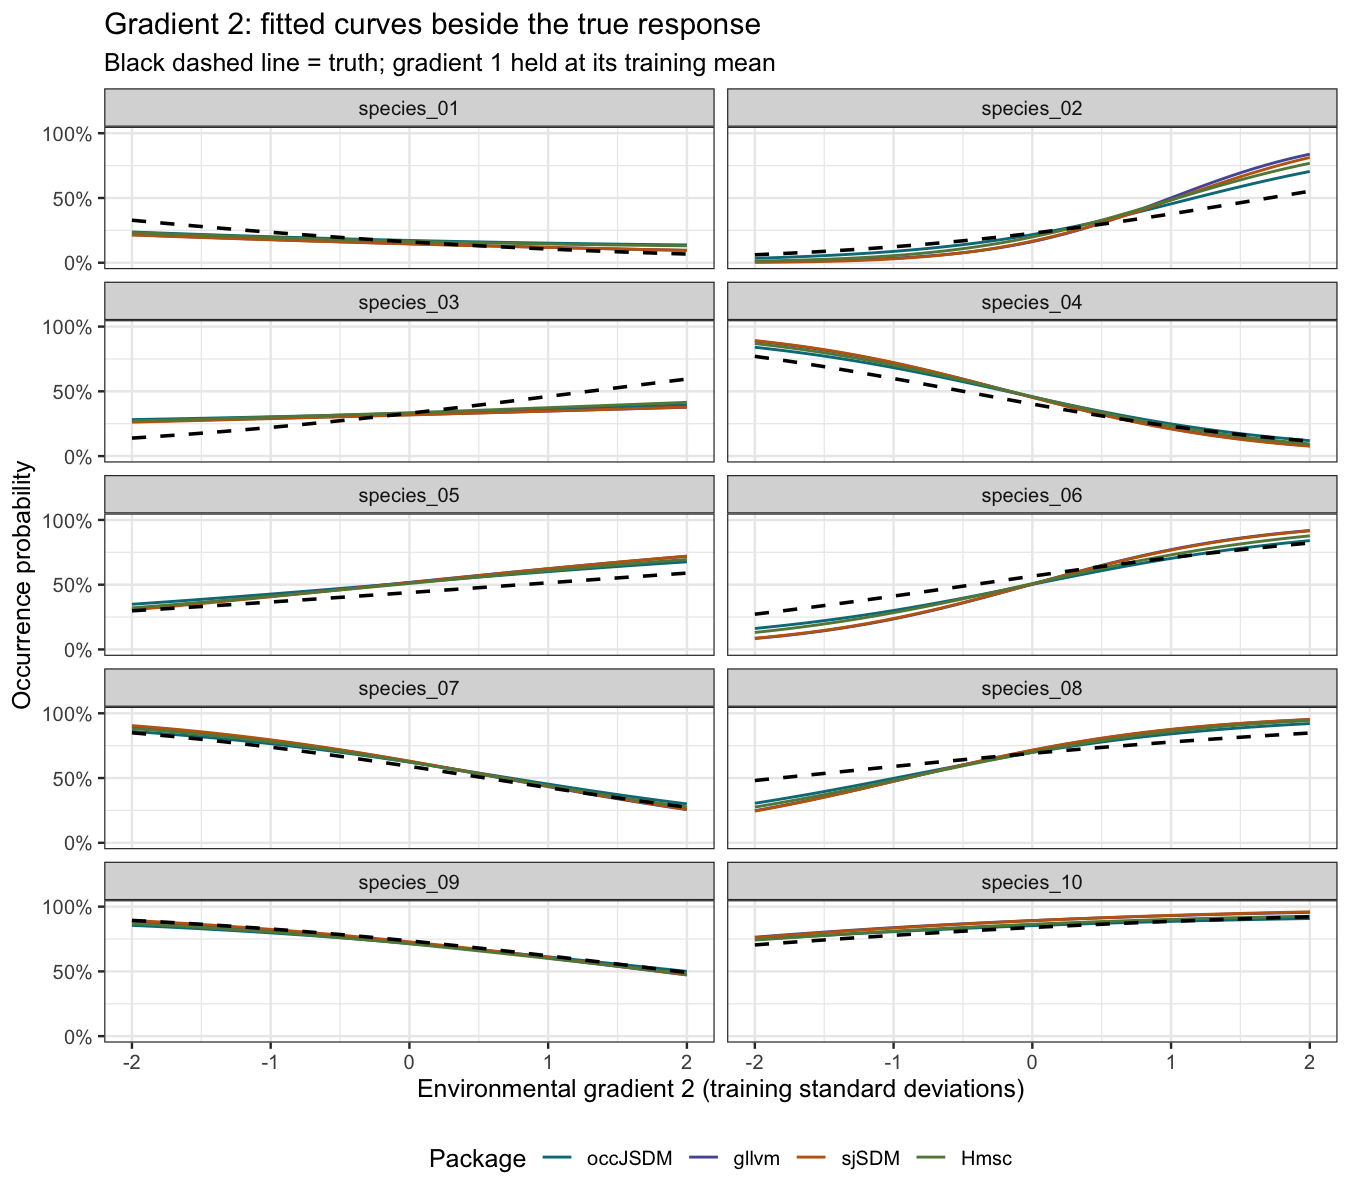
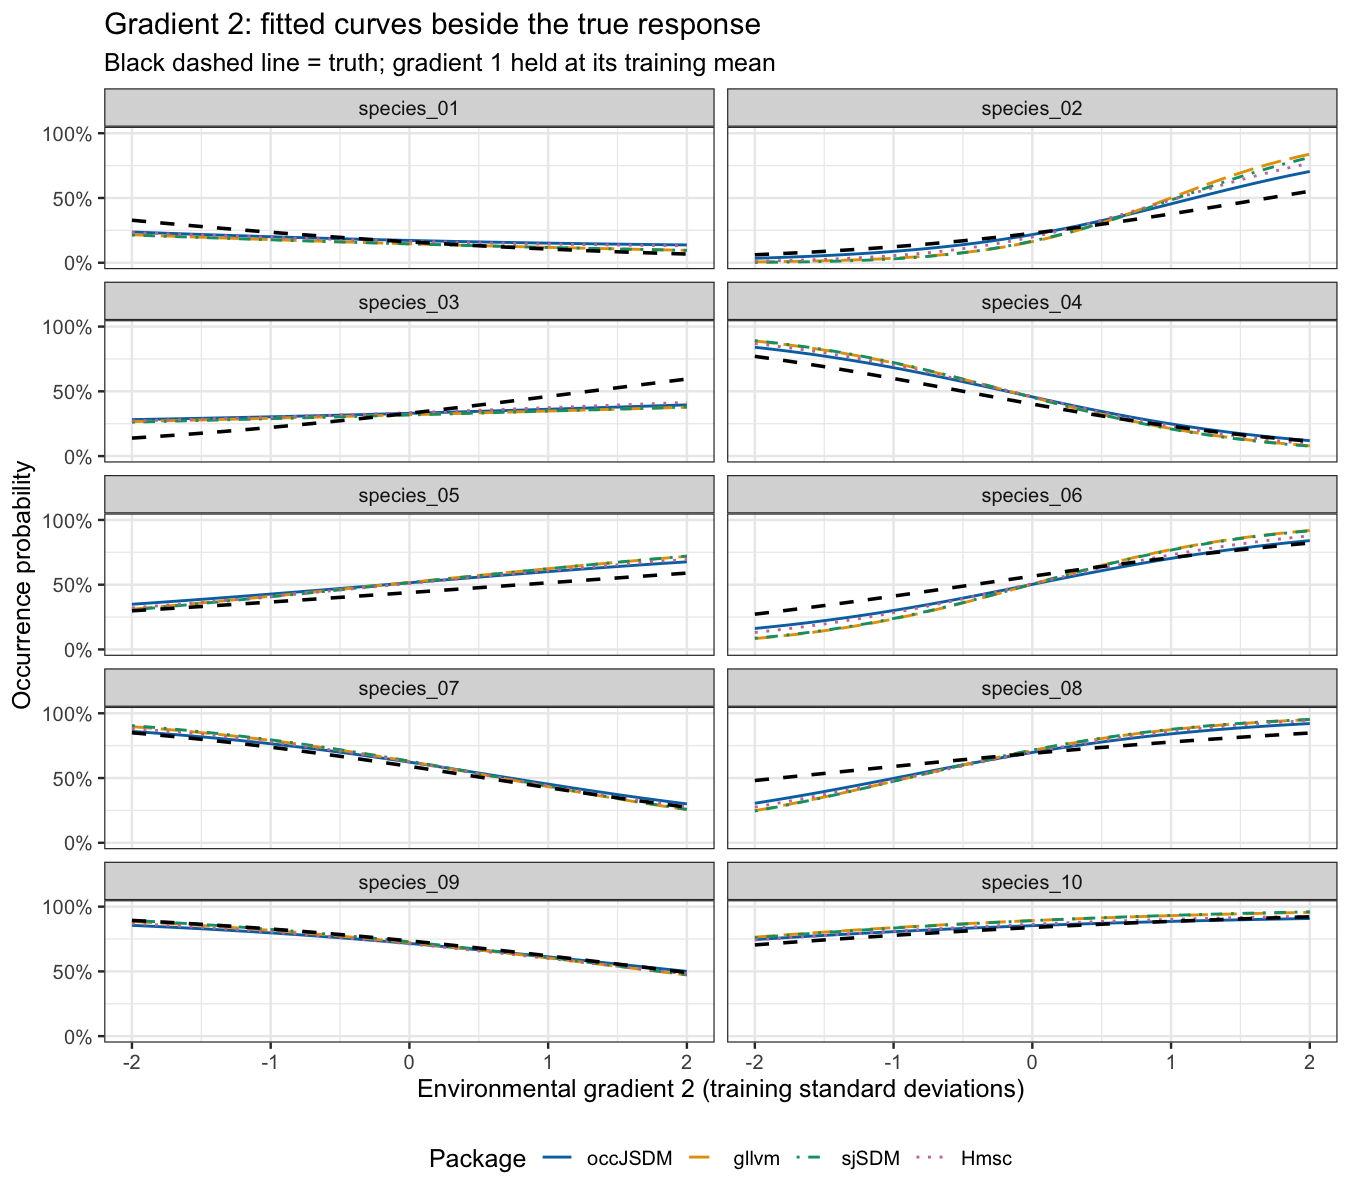
Use colour-blind-safe Okabe-Ito colours in Lessons 2, 5, 6 and 7
Replace the purple #7B3294 in Lessons 2 and 7 with bluish green and add
a shape per prior setting or arm; give Lesson 5's four packages
Okabe-Ito colours with shapes (errors by species) and linetypes
(gradient curves); in Lesson 6, keep the Lesson 5 package colours,
add a linetype to the generating curves, and colour training sites
and fitted responses with the two Okabe-Ito colours no package uses,
including the calibration report helper so both site figures match.

diff --git a/vignettes/occJSDM-lesson-6.md b/vignettes/occJSDM-lesson-6.md
@@ -28,6 +28,15 @@ library(ggplot2)
 
 package_order <- c("occJSDM", "gllvm", "sjSDM", "Hmsc")
 
+# Okabe-Ito colours, which stay distinct for readers with colour-vision deficiency.
+# Each package keeps its Lesson 5 colour and shape.
+package_colours <- c(occJSDM = "#0072B2", gllvm = "#E69F00", sjSDM = "#009E73", Hmsc = "#CC79A7")
+package_shapes <- c(occJSDM = 16, gllvm = 17, sjSDM = 15, Hmsc = 18)
+# Figures that already place packages on an axis or in panels use the two colours
+# no package uses, so a colour there never looks like a package.
+site_colours <- c("100" = "#56B4E9", "300" = "#D55E00")
+response_colours <- c(linear = "#D55E00", quadratic = "#56B4E9")
+
 # Keep the registered ternary theme elements valid when vignettes share a session.
 theme_set(ggtern::theme_bw(base_size = 12))
 ```
@@ -172,13 +181,15 @@ These are the **true generating curves** for the first species in the first simu
 extension$generating_curves |>
   as_tibble() |>
   filter(scenario %in% c("baseline", "rare", "curved")) |>
-  ggplot(aes(environment, probability, colour = scenario)) +
+  ggplot(aes(environment, probability, colour = scenario, linetype = scenario)) +
   geom_line(linewidth = 1) +
+  scale_colour_manual(values = c(baseline = "#0072B2", rare = "#E69F00", curved = "#009E73")) +
+  scale_linetype_manual(values = c(baseline = "solid", rare = "longdash", curved = "dotdash")) +
   scale_y_continuous(labels = scales::percent, limits = c(0, 1)) +
   labs(
     x = "Environmental gradient 1, in original simulation units",
     y = "True probability of occurrence",
-    colour = "Simulation",
+    colour = "Simulation", linetype = "Simulation",
     caption = "Known generating truth for species_01, community 1; no model estimates in this figure."
   ) +
   theme_bw()
@@ -332,6 +343,7 @@ if (nrow(extension$fitted_curves) > 0) {
     geom_line(aes(y = truth), colour = "black", linetype = "dashed", linewidth = 0.8) +
     geom_line(aes(y = estimate, colour = response), linewidth = 0.8) +
     facet_grid(n_sites ~ package) +
+    scale_colour_manual(values = response_colours) +
     scale_y_continuous(labels = scales::percent, limits = c(0, 1)) +
     labs(
       x = "Environmental gradient 1",
@@ -520,7 +532,7 @@ if (nrow(extension$traits) > 0) {
     distinct(relationship, design, truth) |>
     mutate(no_effect_on_error_scale = -truth)
 
-  ggplot(matched_trait_effects, aes(factor(replicate), coefficient_error, colour = package)) +
+  ggplot(matched_trait_effects, aes(factor(replicate), coefficient_error, colour = package, shape = package)) +
     geom_hline(yintercept = 0, linetype = "dashed") +
     geom_hline(
       data = no_effect_references,
@@ -532,10 +544,12 @@ if (nrow(extension$traits) > 0) {
       position = position_dodge(width = 0.5)
     ) +
     facet_grid(relationship ~ design, scales = "free_y") +
+    scale_colour_manual(values = package_colours) +
+    scale_shape_manual(values = package_shapes) +
     labs(
       x = "Independent simulated community",
       y = "Estimated trait effect minus its true value",
-      colour = "Package",
+      colour = "Package", shape = "Package",
       caption = "Dashed black: estimate equals truth. Dotted red: estimated effect is zero. Coefficient differences are not probability percentage points."
     ) +
     theme_bw()
@@ -764,6 +778,7 @@ prediction_calibration |>
   geom_hline(yintercept = 0, colour = "grey70") +
   geom_point(position = position_jitterdodge(jitter.width = .15, dodge.width = .6, seed = 25), alpha = .75) +
   facet_grid(condition ~ measure, scales = "free_y") +
+  scale_colour_manual(values = site_colours) +
   labs(x = NULL, y = "Error (percentage points)", colour = "Training sites", shape = "Diagnostics",
     caption = "Each point is one community. Flagged fits remain visible; failed fits have no score.") +
   theme_bw() + theme(axis.text.x = element_text(angle = 35, hjust = 1))
@@ -911,6 +926,7 @@ as_tibble(calibration$per_community) |>
     inherit.aes = FALSE, vjust = -.7, size = 2.5) +
   scale_x_discrete(limits = package_order, drop = FALSE) +
   facet_grid(condition ~ measure, scales = "free_y") +
+  scale_colour_manual(values = site_colours) +
   labs(x = NULL, y = NULL, colour = "Training sites", shape = "Diagnostics",
     caption = "Each point summarises one community. Empty package columns identify missing intervals.") +
   theme_bw()
@@ -988,6 +1004,7 @@ as_tibble(calibration$per_community) |>
     aes(x = package, y = -Inf, label = "Different link"), inherit.aes = FALSE, vjust = -.7, size = 2.5) +
   scale_x_discrete(limits = package_order, drop = FALSE) +
   facet_wrap(vars(condition, measure), ncol = 2, scales = "free_y") +
+  scale_colour_manual(values = site_colours) +
   labs(x = NULL, y = NULL, colour = "Training sites", shape = "Diagnostics",
     caption = "First environmental slope, original predictor units. sjSDM uses conditional native uncertainty.") +
   theme_bw()

diff --git a/vignettes/occJSDM-lesson-5.md b/vignettes/occJSDM-lesson-5.md
@@ -44,10 +44,14 @@ predictions <- as_tibble(comparison$predictions)
 
 package_order <- c("occJSDM", "gllvm", "sjSDM", "Hmsc")
 package_labels <- c("occJSDM", "gllvm", "sjSDM", "Hmsc")
+# Okabe-Ito colours, which stay distinct for readers with colour-vision deficiency.
 package_colours <- c(
-  occJSDM = "#007A87", gllvm = "#555AA4",
-  sjSDM = "#C16612", Hmsc = "#648747"
+  occJSDM = "#0072B2", gllvm = "#E69F00",
+  sjSDM = "#009E73", Hmsc = "#CC79A7"
 )
+# A second cue beside colour where packages share one panel.
+package_shapes <- c(occJSDM = 16, gllvm = 17, sjSDM = 15, Hmsc = 18)
+package_linetypes <- c(occJSDM = "solid", gllvm = "longdash", sjSDM = "dotdash", Hmsc = "dotted")
 
 target_labels <- c(
   sampled_site_recovery = "Reconstruct sampled sites",
@@ -714,13 +718,15 @@ species_errors <- predictions |>
     .groups = "drop"
   )
 
-ggplot(species_errors, aes(absolute_error_pp, species, colour = package)) +
+ggplot(species_errors, aes(absolute_error_pp, species, colour = package, shape = package)) +
   geom_point(position = position_dodge(width = 0.6), size = 2.4) +
   facet_wrap(~ question) +
   scale_colour_manual(values = package_colours, labels = package_labels) +
+  scale_shape_manual(values = package_shapes, labels = package_labels) +
   scale_x_continuous(limits = c(0, NA)) +
   labs(x = "Average absolute error (percentage points)", y = "Species",
-       colour = "Package", title = "An overall average hides differences among species") +
+       colour = "Package", shape = "Package",
+       title = "An overall average hides differences among species") +
   theme(legend.position = "bottom")
 ```
 
@@ -795,17 +801,18 @@ gradient_misses <- largest_misses |>
 
 ``` r
 ggplot(filter(response_curves, gradient == "environment_1"),
-       aes(value, estimate, colour = package)) +
+       aes(value, estimate, colour = package, linetype = package)) +
   geom_line(linewidth = 0.65) +
   geom_line(data = filter(true_curves, gradient == "environment_1"),
             aes(value, truth), inherit.aes = FALSE,
             colour = "black", linetype = "dashed", linewidth = 0.8) +
   facet_wrap(~ species, ncol = 2) +
   scale_colour_manual(values = package_colours, labels = package_labels) +
+  scale_linetype_manual(values = package_linetypes, labels = package_labels) +
   scale_y_continuous(limits = c(0, 1), breaks = c(0, 0.5, 1),
                      labels = scales::label_percent()) +
   labs(x = "Environmental gradient 1 (training standard deviations)",
-       y = "Occurrence probability", colour = "Package",
+       y = "Occurrence probability", colour = "Package", linetype = "Package",
        title = "Gradient 1: fitted curves beside the true response",
        subtitle = "Black dashed line = truth; gradient 2 held at its training mean") +
   theme(legend.position = "bottom")
@@ -815,17 +822,18 @@ ggplot(filter(response_curves, gradient == "environment_1"),
 
 ``` r
 ggplot(filter(response_curves, gradient == "environment_2"),
-       aes(value, estimate, colour = package)) +
+       aes(value, estimate, colour = package, linetype = package)) +
   geom_line(linewidth = 0.65) +
   geom_line(data = filter(true_curves, gradient == "environment_2"),
             aes(value, truth), inherit.aes = FALSE,
             colour = "black", linetype = "dashed", linewidth = 0.8) +
   facet_wrap(~ species, ncol = 2) +
   scale_colour_manual(values = package_colours, labels = package_labels) +
+  scale_linetype_manual(values = package_linetypes, labels = package_labels) +
   scale_y_continuous(limits = c(0, 1), breaks = c(0, 0.5, 1),
                      labels = scales::label_percent()) +
   labs(x = "Environmental gradient 2 (training standard deviations)",
-       y = "Occurrence probability", colour = "Package",
+       y = "Occurrence probability", colour = "Package", linetype = "Package",
        title = "Gradient 2: fitted curves beside the true response",
        subtitle = "Black dashed line = truth; gradient 1 held at its training mean") +
   theme(legend.position = "bottom")

diff --git a/vignettes/occJSDM-lesson-2.md b/vignettes/occJSDM-lesson-2.md
@@ -154,8 +154,11 @@ fit_labels <- c(
 fit_colours <- c(
   perfect = "#0072B2",
   default = "#D55E00",
-  alternative = "#7B3294"
+  alternative = "#009E73"
 )
+
+# A shape for each prior setting, so the prior comparison does not rely on colour alone.
+fit_shapes <- c(default = 16, alternative = 17)
 
 format_percent <- function(probability, digits = 1) {
   paste0(formatC(100 * probability, format = "f", digits = digits), "%")
@@ -1122,7 +1125,7 @@ case_comparison <- bind_rows(
 case_truth <- case_comparison |>
   distinct(case, quantity, truth)
 
-ggplot(case_comparison, aes(x = estimate, y = case, colour = arm)) +
+ggplot(case_comparison, aes(x = estimate, y = case, colour = arm, shape = arm)) +
   geom_point(position = position_dodge(width = 0.35), size = 2.5) +
   geom_point(
     data = case_truth, aes(x = truth, y = case),
@@ -1135,14 +1138,20 @@ ggplot(case_comparison, aes(x = estimate, y = case, colour = arm)) +
     labels = c("Default priors", "More permissive FP priors"),
     name = NULL
   ) +
+  scale_shape_manual(
+    values = fit_shapes,
+    breaks = c("default", "alternative"),
+    labels = c("Default priors", "More permissive FP priors"),
+    name = NULL
+  ) +
   scale_x_continuous(limits = c(-0.02, 1.02), breaks = seq(0, 1, 0.25), labels = format_percent) +
   labs(x = "Estimated probability; black cross = actual state", y = NULL) +
   theme(legend.position = "bottom")
 ```
 
 <figure>
-<img src="occJSDM-lesson-2_files/figure-gfm/prior-sensitivity-cases-1.png" alt="Each estimate is a posterior probability about an actual 0/1 state. Black crosses reveal those states. The two coloured points use exactly the same PCR observations but different contamination priors. These probabilities are not estimates of the true occupancy probability." />
-<figcaption aria-hidden="true">Each estimate is a posterior probability about an actual 0/1 state. Black crosses reveal those states. The two coloured points use exactly the same PCR observations but different contamination priors. These probabilities are not estimates of the true occupancy probability.</figcaption>
+<img src="occJSDM-lesson-2_files/figure-gfm/prior-sensitivity-cases-1.png" alt="Each estimate is a posterior probability about an actual 0/1 state. Black crosses reveal those states. The coloured circle and triangle use exactly the same PCR observations but different contamination priors. These probabilities are not estimates of the true occupancy probability." />
+<figcaption aria-hidden="true">Each estimate is a posterior probability about an actual 0/1 state. Black crosses reveal those states. The coloured circle and triangle use exactly the same PCR observations but different contamination priors. These probabilities are not estimates of the true occupancy probability.</figcaption>
 </figure>
 
 Under the alternative priors, the field-stage false-positive case receives 0.6% probability of site presence, close to its 0.7% under the default priors. Although this case is rejected under both priors, loosening the contamination priors does not resolve field-stage false positives across the survey. Their mean site probability is 41.4% under the alternative priors, against 47.4% under the default priors, because the ambiguity is in the data, not the prior. Across all 1,000 species-site pairs, mean absolute occupancy error changes from 15.4 to 16.2 percentage points. The alternative priors therefore worsen overall recovery in this dataset. We did not tune them to get any particular answer. On your own survey, refitting under a more permissive contamination prior is a way to see whether your key conclusions depend on the contamination assumption.

diff --git a/vignettes/occJSDM-lesson-7.md b/vignettes/occJSDM-lesson-7.md
@@ -92,6 +92,10 @@ arrangement_labels <- c(spread = "Spread at random", pairs = "Spread plus close 
                         clustered = "Ten clusters of ten", grid = "Regular grid (control)")
 arm_labels <- c(oracle = "Oracle: true states, known parameters",
                 binary = "occJSDM: true states", two_stage = "occJSDM: eDNA survey")
+# Okabe-Ito colours and a shape for each arm, so the arms stay distinct
+# for readers with colour-vision deficiency.
+arm_colours <- setNames(c("#0072B2", "#D55E00", "#009E73"), arm_labels)
+arm_shapes <- setNames(c(16, 17, 15), arm_labels)
 group_labels <- c(prevalence_5pct = "5% species", prevalence_25pct = "25% species",
                   prevalence_75pct = "75% species")
 
@@ -274,12 +278,13 @@ The ceiling is low for every arrangement except one. With sites spread at random
 The full model must also estimate what the oracle was given: the intercepts, slopes, range and amplitude. In the survey arm it must, in addition, see the field through detection error. So the gap between the oracle and the true-state fit is the **cost of estimation**, and the gap between the true-state fit and the eDNA-survey fit is the **cost of detection**.
 
 ``` r
-ggplot(recovery, aes(arrangement, reduction, colour = arm)) +
+ggplot(recovery, aes(arrangement, reduction, colour = arm, shape = arm)) +
   geom_hline(yintercept = 0, colour = "grey50") +
   geom_point(position = position_dodge(.5), size = 2.4) +
   facet_wrap(~ group) +
-  scale_colour_manual(values = c("#0072B2", "#D55E00", "#7B3294")) +
-  labs(x = NULL, y = "Field error reduction relative to a flat field", colour = NULL,
+  scale_colour_manual(values = arm_colours) +
+  scale_shape_manual(values = arm_shapes) +
+  labs(x = NULL, y = "Field error reduction relative to a flat field", colour = NULL, shape = NULL,
        title = "Oracle ceiling, true-state fit and eDNA-survey fit",
        caption = "Means of three communities. Each point's community range is in the saved tables.") +
   theme(axis.text.x = element_text(angle = 25, hjust = 1), legend.position = "bottom", plot.margin = margin(5.5, 5.5, 5.5, 30))
@@ -431,12 +436,13 @@ The fit does not find the range either. Each fit gives a posterior probability, 
 sweep$fits$range |>
   mutate(arrangement = factor(arrangement, arrangement_order, arrangement_labels),
          arm = factor(arm, names(arm_labels)[-1], arm_labels[-1])) |>
-  ggplot(aes(arrangement, mass_within_one_step, colour = arm)) +
+  ggplot(aes(arrangement, mass_within_one_step, colour = arm, shape = arm)) +
   geom_hline(yintercept = .5, linetype = "dashed") +
   geom_point(position = position_dodge(.4), size = 2.4) +
-  scale_colour_manual(values = c("#D55E00", "#7B3294")) +
+  scale_colour_manual(values = arm_colours) +
+  scale_shape_manual(values = arm_shapes) +
   ylim(0, 1) +
-  labs(x = NULL, y = "Posterior mass near the true range", colour = NULL,
+  labs(x = NULL, y = "Posterior mass near the true range", colour = NULL, shape = NULL,
        title = "Does the fit find the range?", caption = "Mass within one grid step of the true range. One point per community. Dashed line: the reading rule.") +
   theme(axis.text.x = element_text(angle = 25, hjust = 1), legend.position = "bottom")
 ```
